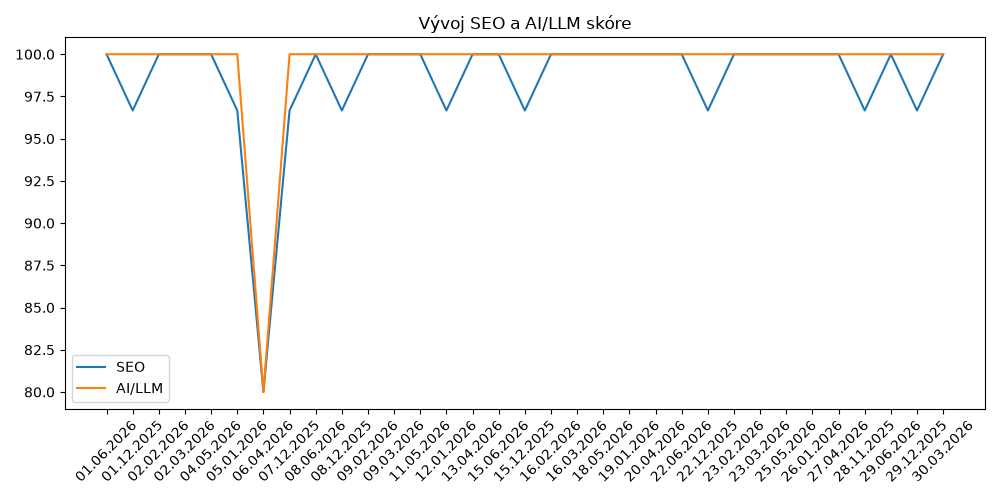
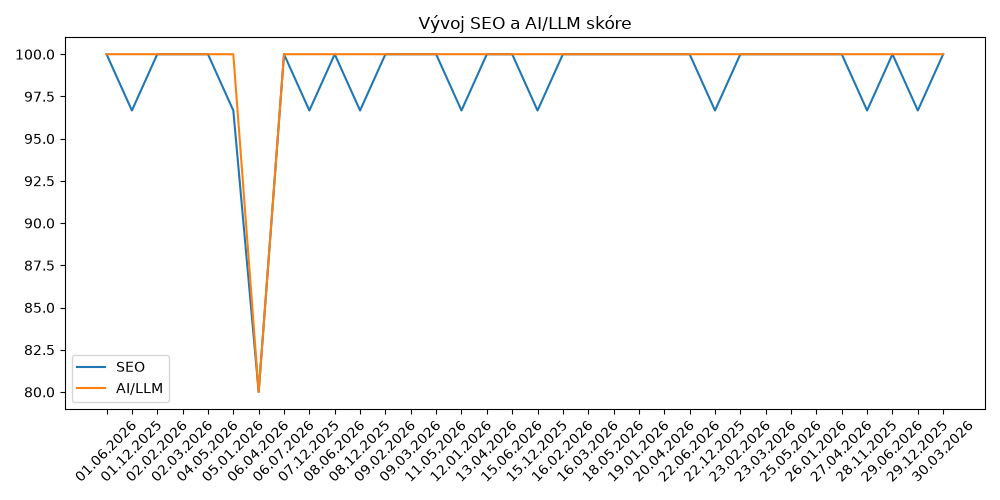
Automatický týdenní report

diff --git a/reports/report_06.07.2026.md b/reports/report_06.07.2026.md
@@ -1,0 +1,35 @@
+# Týdenní report – 06.07.2026
+
+## 📈 Vývoj Performance
+![Performance](../reports/performance_trend.png)
+
+## 📘 Vývoj SEO + AI/LLM skóre
+![SEO AI](../reports/seo_ai_trend.png)
+
+## 🔵 https://www.o2.cz/
+
+### 📱 Mobile Performance: **0**
+### 🖥 Desktop Performance: **0**
+### 🔍 SEO: **100**
+### 🤖 AI/LLM: **100**
+
+### ✔ Obrázky jsou v pořádku
+
+## 🔵 https://www.o2.cz/osobni/o2spolu
+
+### 📱 Mobile Performance: **0**
+### 🖥 Desktop Performance: **0**
+### 🔍 SEO: **100**
+### 🤖 AI/LLM: **100**
+
+### ✔ Obrázky jsou v pořádku
+
+## 🔵 https://www.o2.cz/osobni/oneplay
+
+### 📱 Mobile Performance: **0**
+### 🖥 Desktop Performance: **0**
+### 🔍 SEO: **100**
+### 🤖 AI/LLM: **100**
+
+### ✔ Obrázky jsou v pořádku
+